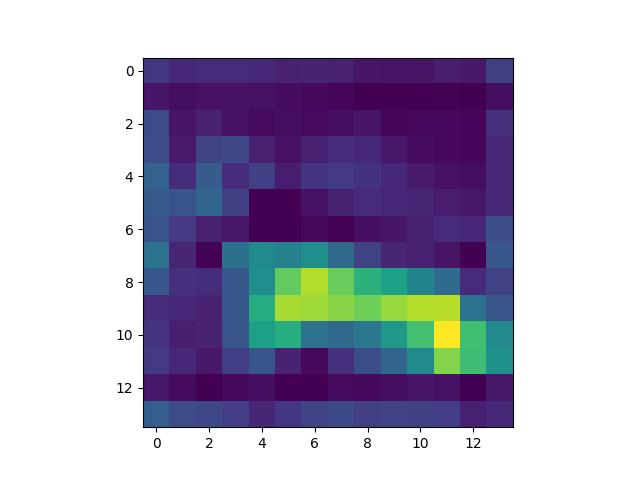
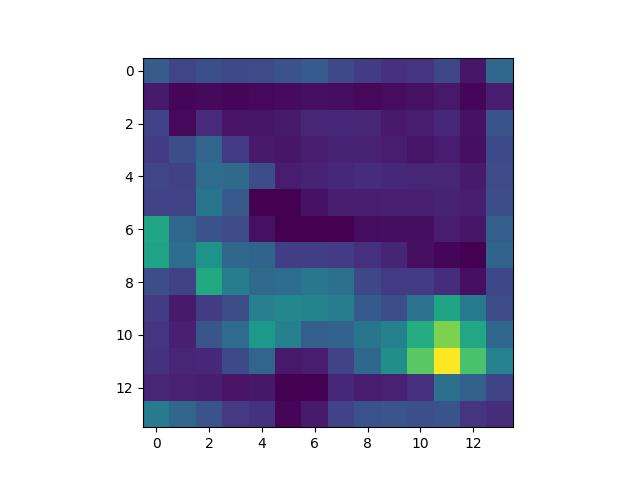
added vgg19 and image of my cat

diff --git a/gui.py b/gui.py
@@ -187,9 +187,13 @@ class Ui(QtWidgets.QDialog):
             self.img_size = (self.keras_model.input_shape[1], self.keras_model.input_shape[2])
             self.custom_channels = self.keras_model.input_shape[3]
         elif self.model.currentText() == "VGG19":
-            print("not implemented")
-        elif self.model.currentText() == "ResNet50":
-            print("not implemented")
+            import keras.applications.vgg19 as vgg19
+            # Keras Model
+            self.keras_model = vgg19.VGG19(weights="imagenet")
+            self.keras_preprocess = vgg19.preprocess_input
+            self.keras_decode = vgg19.decode_predictions
+            self.img_size = (self.keras_model.input_shape[1], self.keras_model.input_shape[2])
+            self.custom_channels = self.keras_model.input_shape[3]
         else:
             custom_model.set_csv_file_path(self.custom_model_mapping_path)
 

diff --git a/framework_grad_video.py b/framework_grad_video.py
@@ -139,13 +139,23 @@ if __name__ == "__main__":
     custom_model_weights_path = sys.argv[5]
     print(f"Model :{model_name}:")
 
-    if model_name == "VGG16":
+    if model_name.strip() == "VGG16":
         import keras.applications.vgg16 as vgg16
+
         # Keras Model
         model = vgg16.VGG16(weights="imagenet")
         img_size = (224, 224)
         preprocess = vgg16.preprocess_input
         decode_predictions = vgg16.decode_predictions
+    elif model_name.strip() == "VGG19":
+        import keras.applications.vgg19 as VGG19
+
+        # Keras Model
+        model = VGG19.VGG19(weights="imagenet")
+        img_size = (224, 224)
+        preprocess = VGG19.preprocess_input
+        decode_predictions = VGG19.decode_predictions
+
     else:
 
         custom_model_mapping_path = sys.argv[6]

diff --git a/framework_gcam_plus.py b/framework_gcam_plus.py
@@ -179,6 +179,15 @@ if __name__ == "__main__":
         img_size = (224, 224)
         preprocess = vgg16.preprocess_input
         decode_predictions = vgg16.decode_predictions
+    elif model_name.strip() == "VGG19":
+        import keras.applications.vgg19 as VGG19
+
+        # Keras Model
+        model = VGG19.VGG19(weights="imagenet")
+        img_size = (224, 224)
+        preprocess = VGG19.preprocess_input
+        decode_predictions = VGG19.decode_predictions
+
     else:
         custom_model_mapping_path = sys.argv[6]
         custom_model.set_csv_file_path(custom_model_mapping_path)

diff --git a/framework_grad_cam.py b/framework_grad_cam.py
@@ -129,6 +129,15 @@ if __name__ == "__main__":
         img_size = (224, 224)
         preprocess = vgg16.preprocess_input
         decode_predictions = vgg16.decode_predictions
+    elif model_name.strip() == "VGG19":
+        import keras.applications.vgg19 as VGG19
+
+        # Keras Model
+        model = VGG19.VGG19(weights="imagenet")
+        img_size = (224, 224)
+        preprocess = VGG19.preprocess_input
+        decode_predictions = VGG19.decode_predictions
+
     else:
         custom_model_mapping_path = sys.argv[6]
         custom_model.set_csv_file_path(custom_model_mapping_path)
